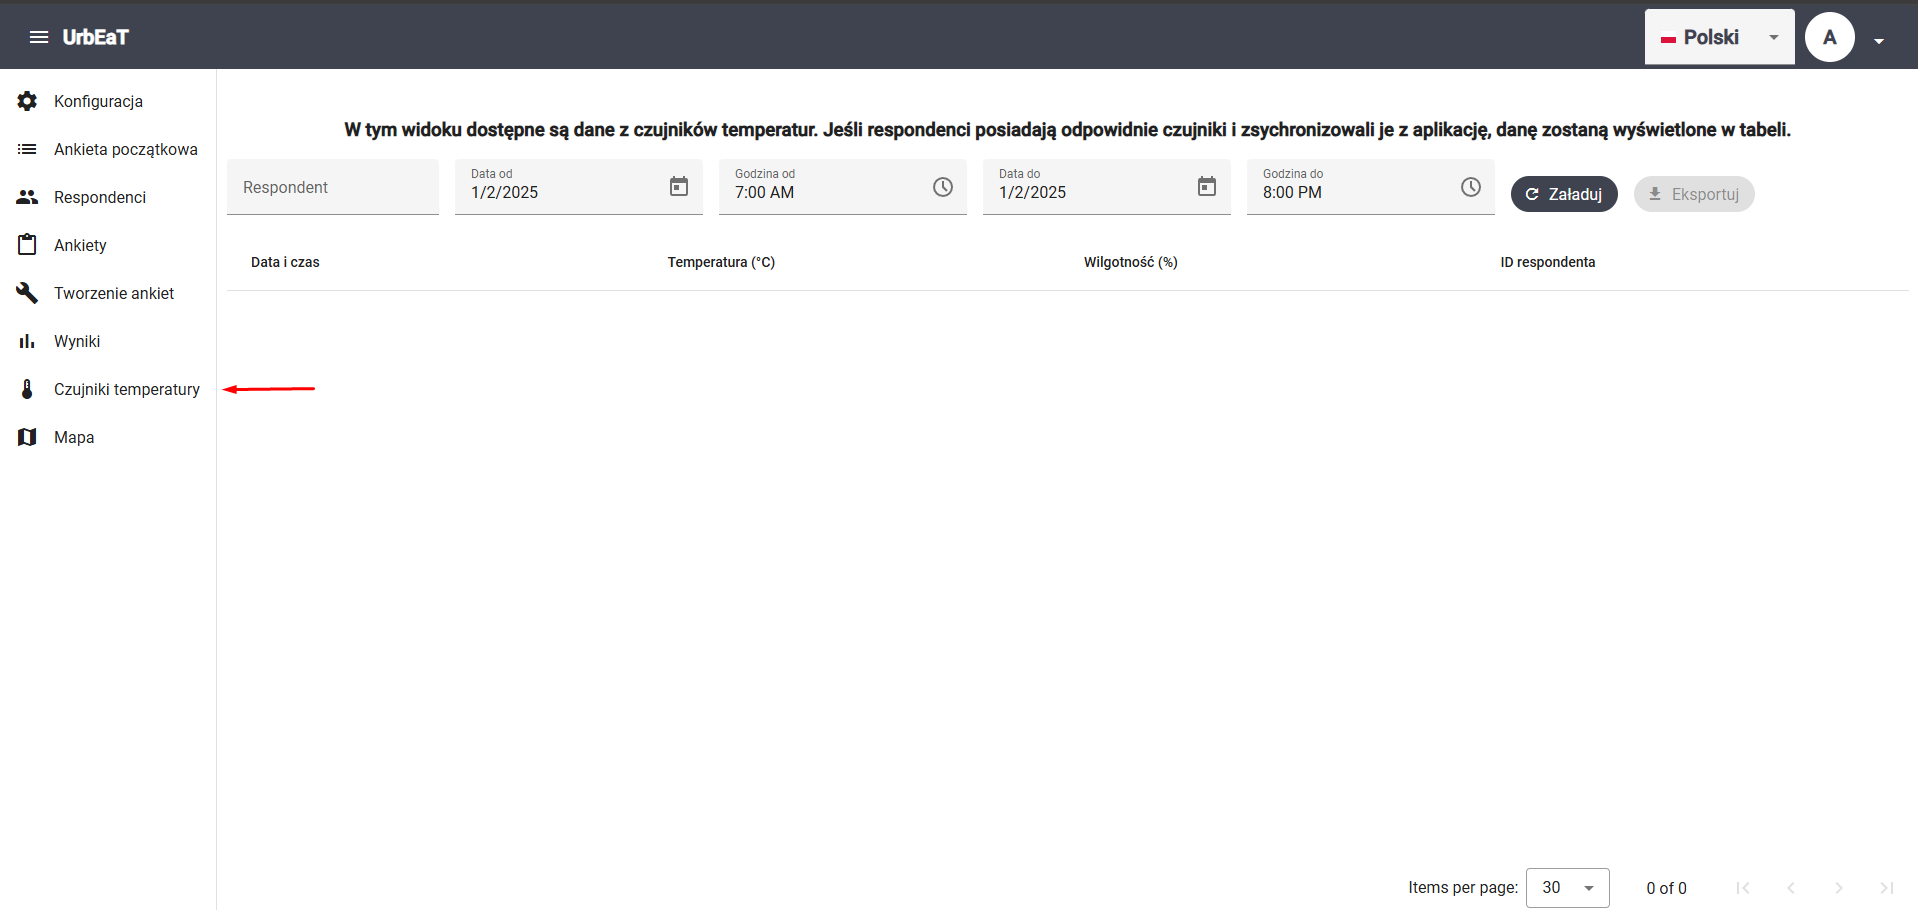
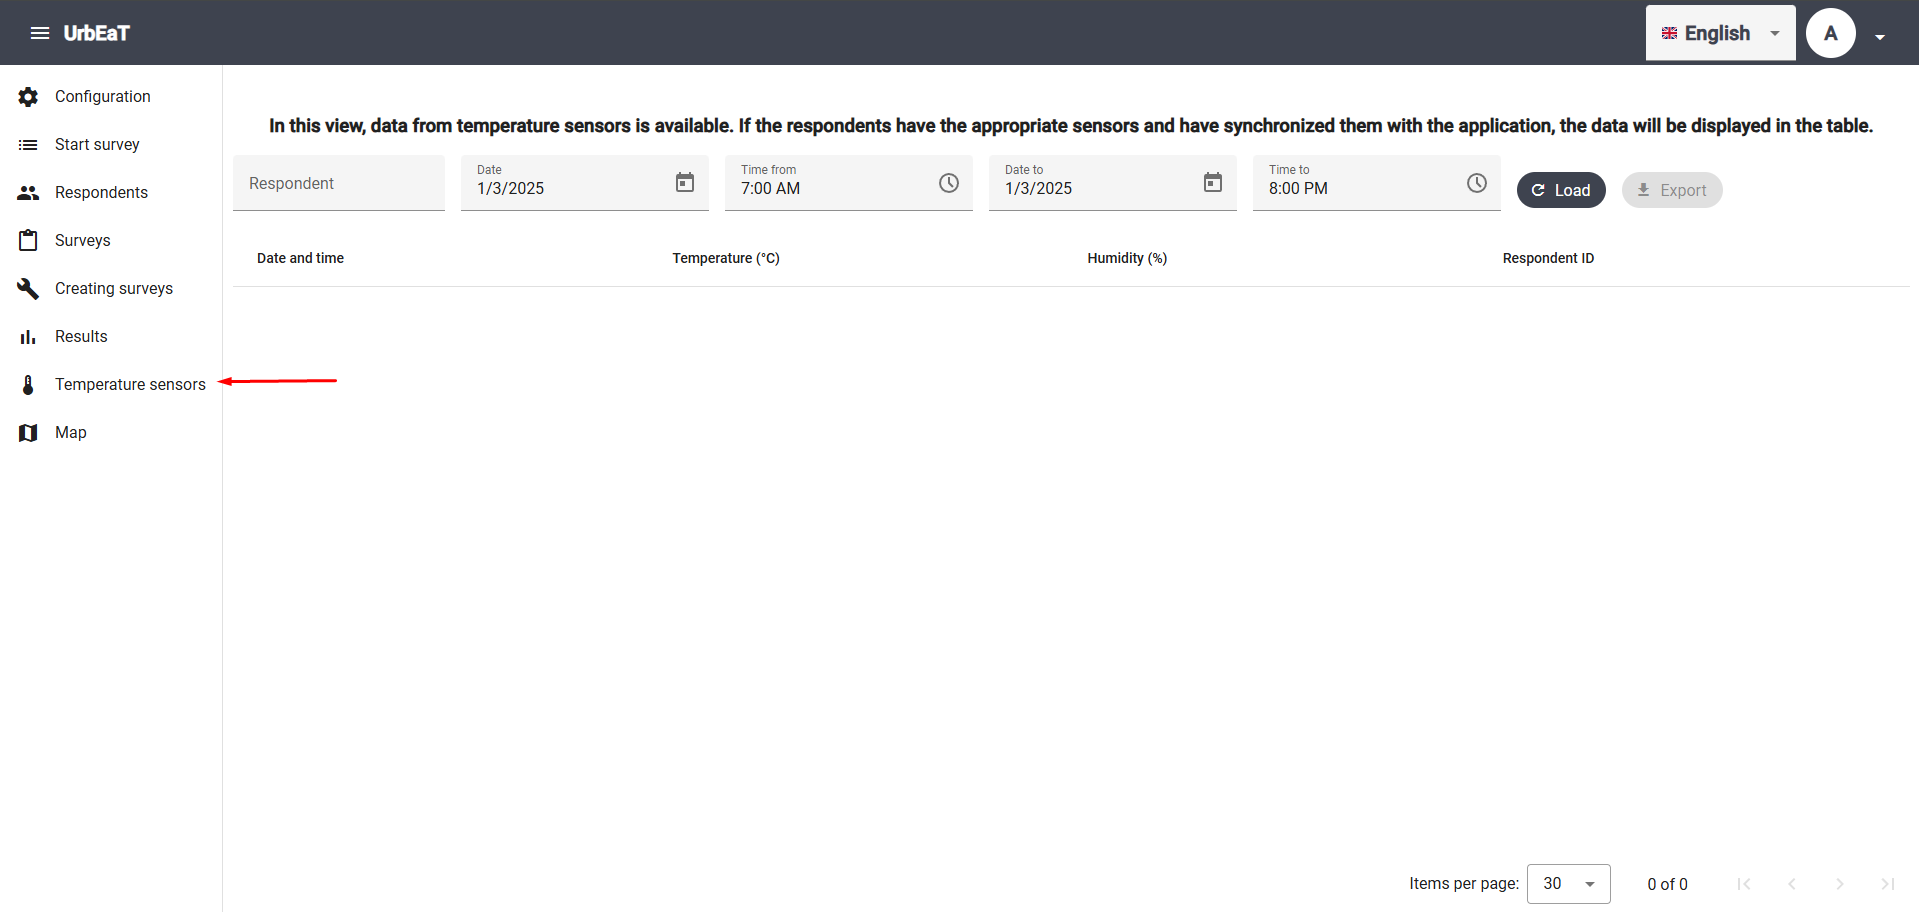
english sensors

diff --git a/docs/user_documentation/en/sensors/sensors.md b/docs/user_documentation/en/sensors/sensors.md
@@ -1,28 +1,29 @@
-# Czujniki temperatury
+# Temperature sensors
 
-Aby przejść do modułu `Czujniki temperatury`, wybierz odpowiednią zakładkę w bocznym panelu po lewej stronie ekranu
+To access the `Temperature sensors` module, select the appropriate tab in the sidebar on the left side of the screen.
 
 ![alt text](imgs/turn_on.png)
 
-W tym module możesz przeglądać i eksportować dane z czujników temperatury i wilgotności powietrza.
+In this module, you can view and export data from temperature and air humidity sensors.
 
-## Filtry 
+## Filters
 
-Możesz ustawić teraz następujące filtry:
+You can now set the following filters:
 
-- respondent
-- data i godzina od
-- data i godzina do
+- Respondent
+- Date and time from
+- Date and time to
 
-Po wciśnięciu przycisku `Załaduj`, zostaną wczytane wyniki
+After clicking the `Load` button, the results will be loaded.
 
-## Eksport wyników
+## Exporting Results
 
-Po wczytaniu danych możesz je eksportować do pliku `.csv` za pomocą przycisku `Eksportuj`
+After loading the data, you can export it to a `.csv` file using the `Export` button.
 
 ![alt text](imgs/export.png)
 
-Przykładowy plik z wynikami:
+Sample file with results:
+
 
 ```csv
 dateTime,temperature,humidity,respondentId
